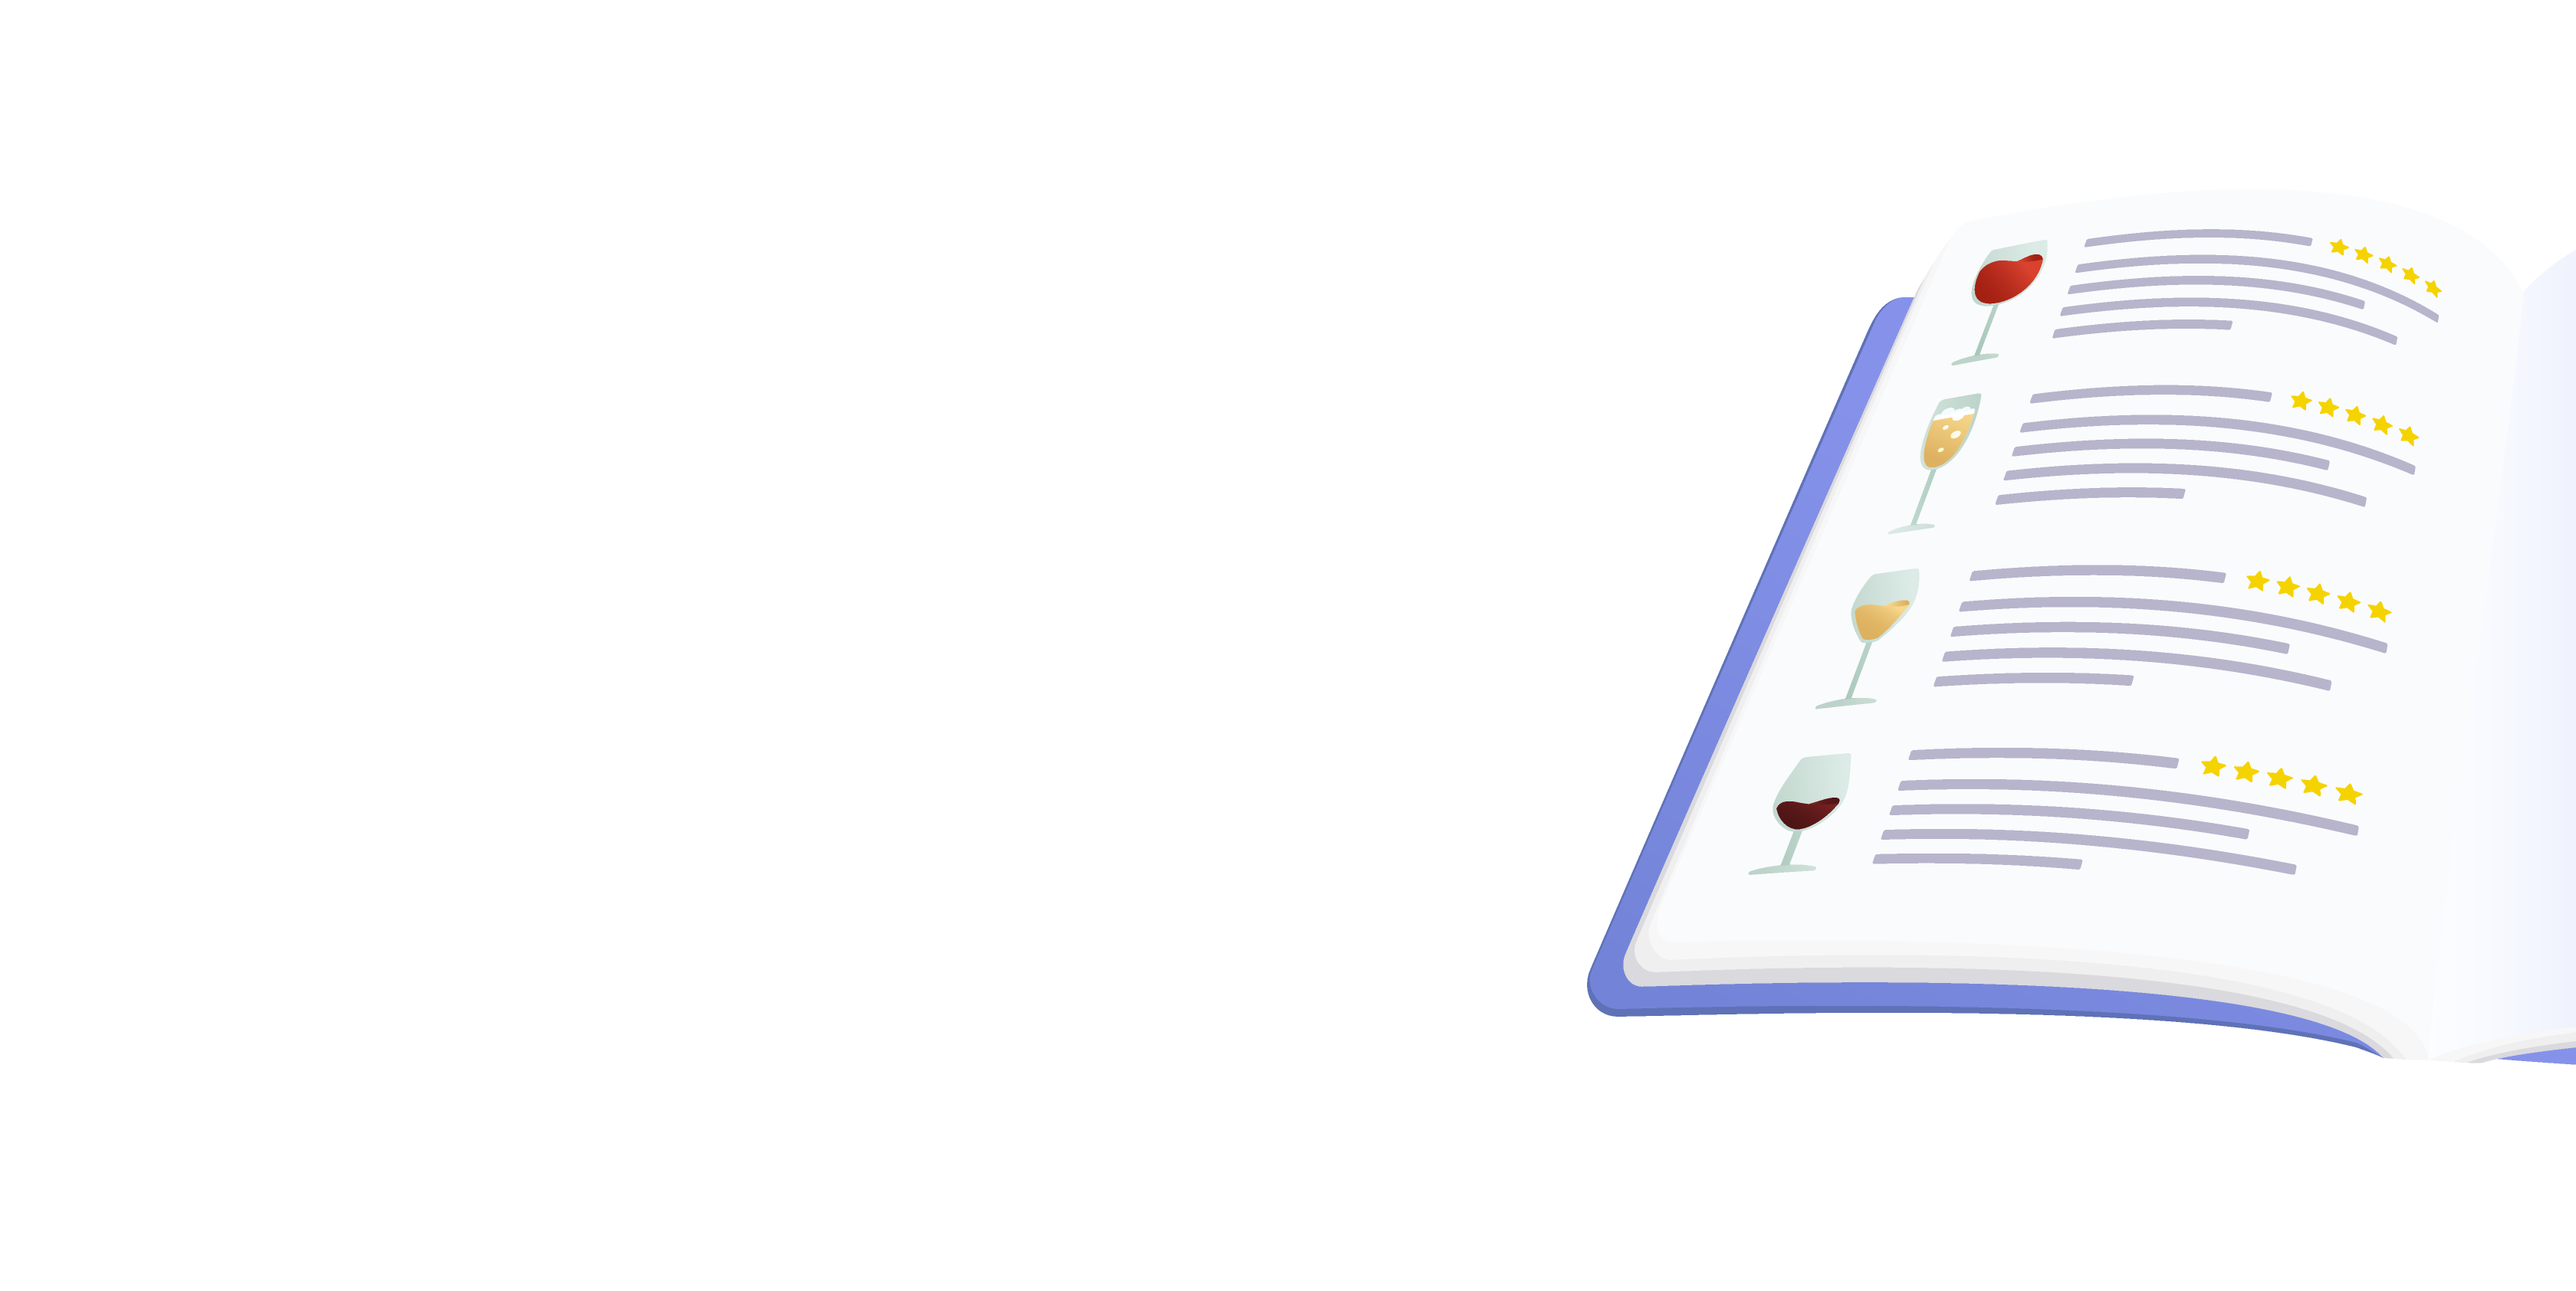
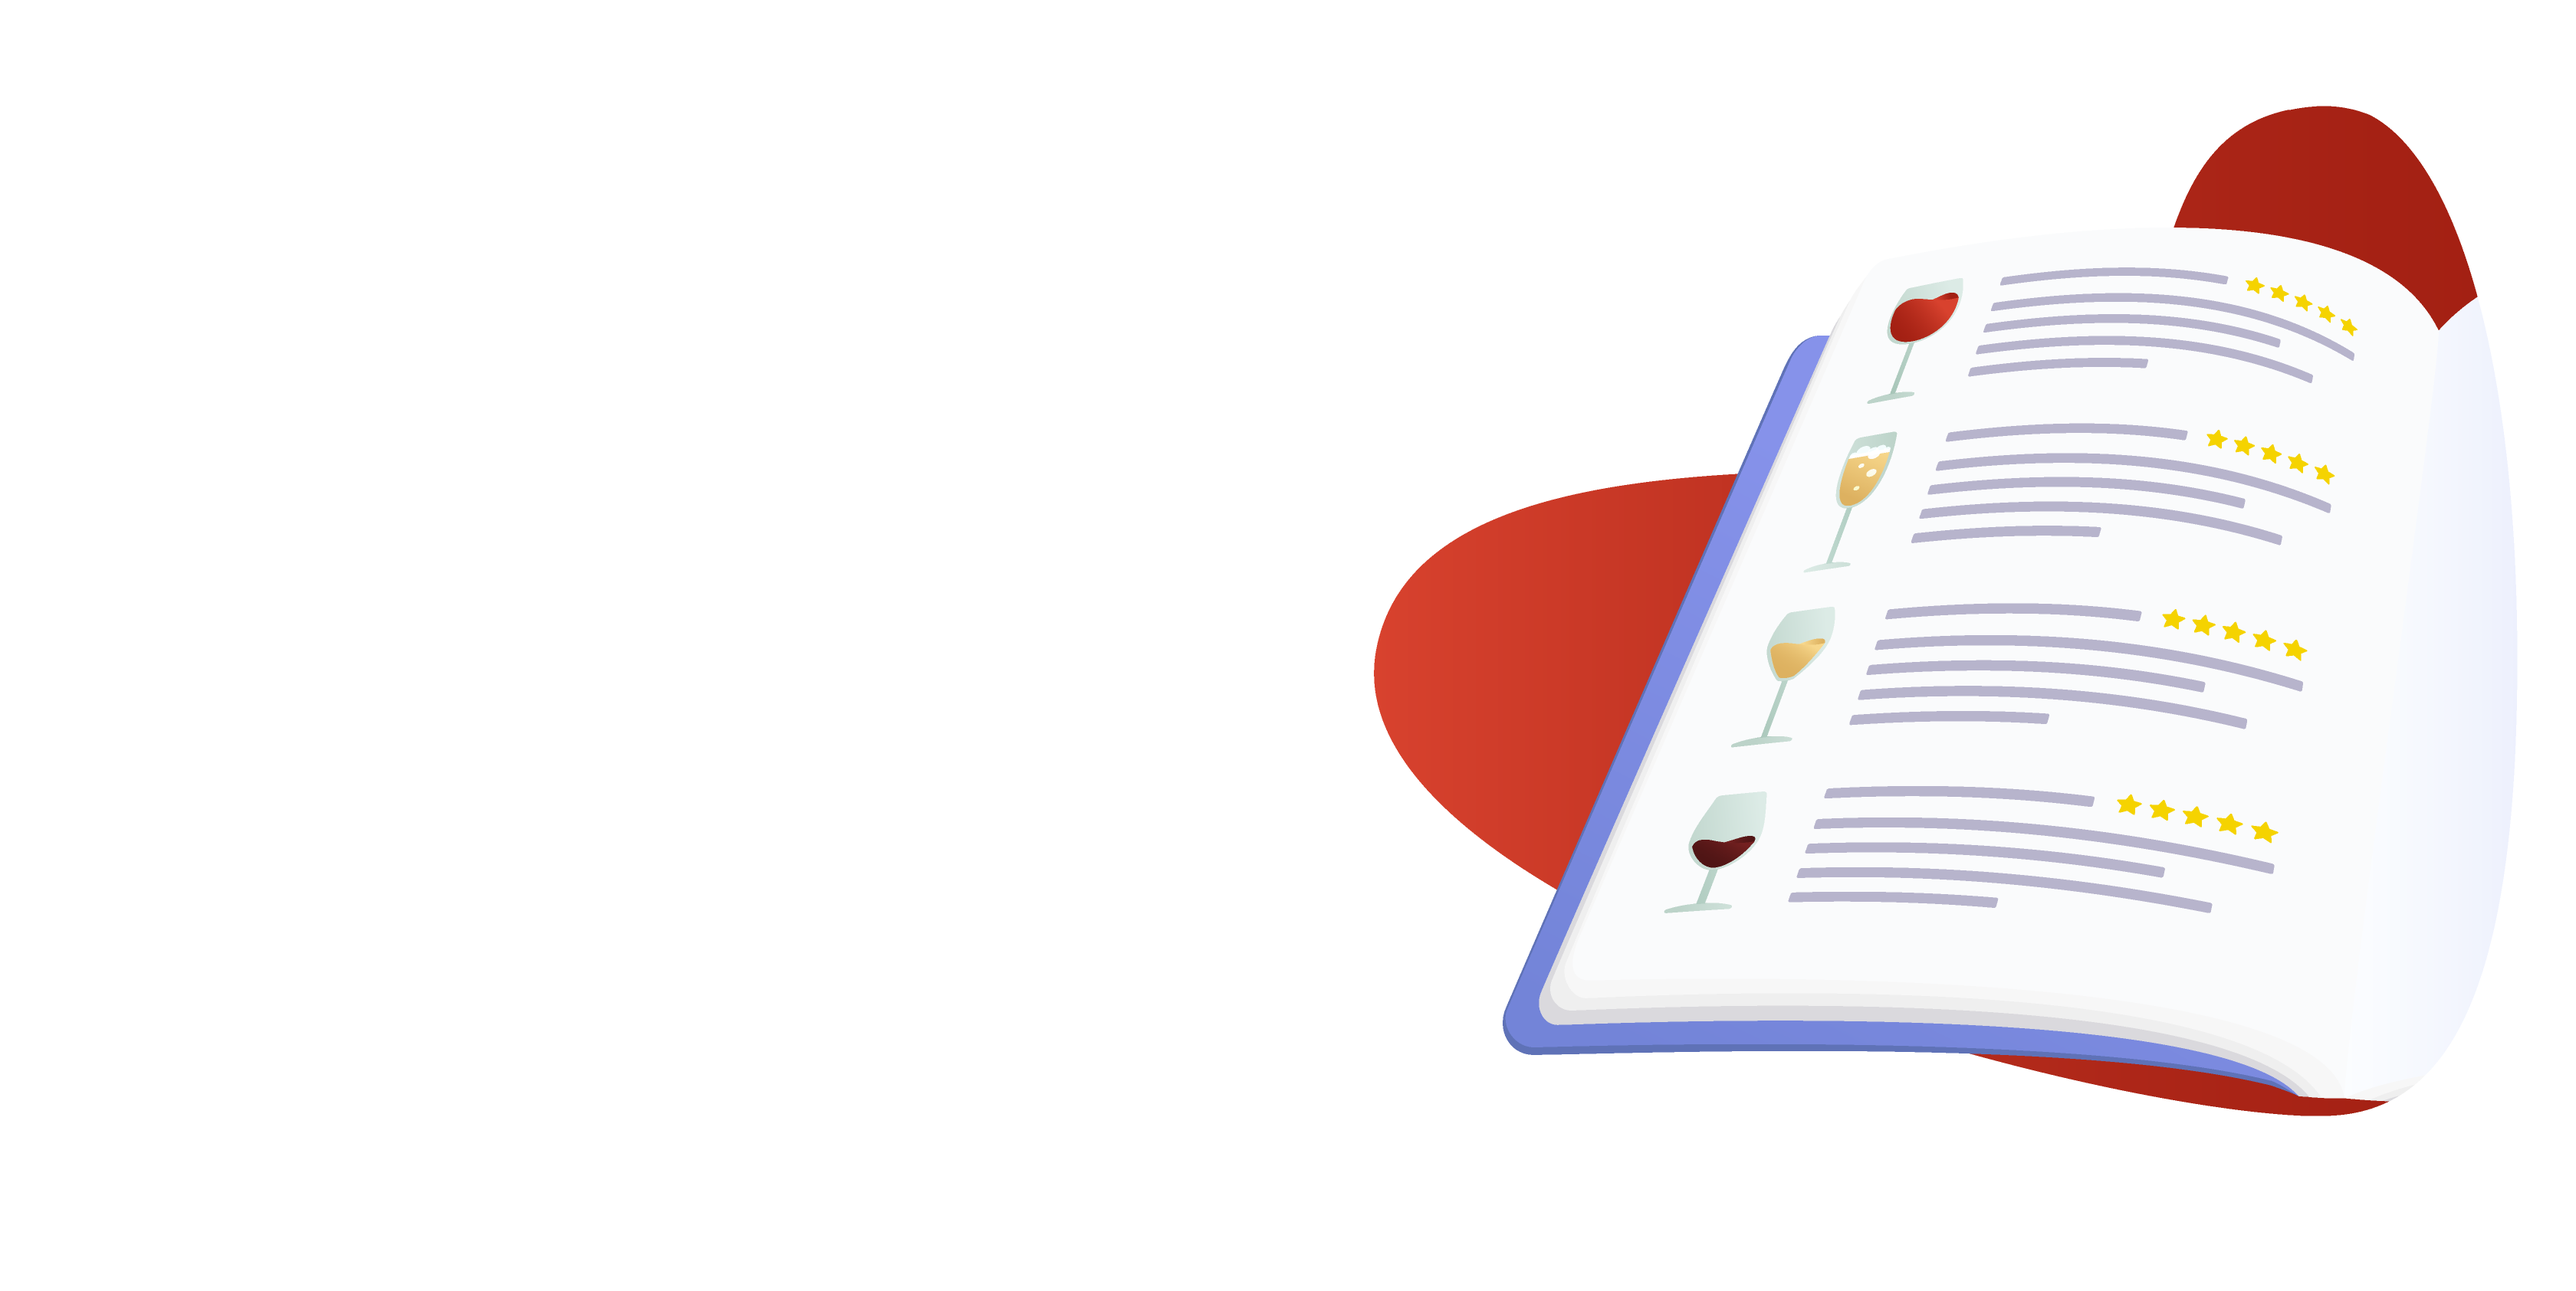
add new landing page image and add new font

Changed region(s): [[0.5312, 0.0617, 0.9688, 0.8641], [0.9688, 0.8024, 1.0, 0.8332]]

diff --git a/client/src/styles/main.css b/client/src/styles/main.css
@@ -48,6 +48,9 @@ body {
   color: #222;
   font-size: 1rem; }
 
+h1, h2, h3, h4, h5, h6 {
+  font-family: "Playfair Display", serif; }
+
 h1 {
   font-size: 2em;
   font-weight: 700;
@@ -92,7 +95,6 @@ section {
     transition: all .1s ease-in-out; }
 
 .open-wine-form {
-  font-family: "Helvetica Neue", "Lato", sans-serif;
   font-size: 1.5rem;
   padding: 1rem 2rem; }
 
@@ -164,67 +166,29 @@ input[type="radio"] {
 .expand-link {
   margin-bottom: 1rem; }
 
-header {
-  background-color: #f9f9f9;
-  flex: 1 0 60px;
-  display: flex;
-  line-height: 60px;
-  padding-top: 0;
-  padding-right: 3%;
-  padding-bottom: 0;
-  padding-left: 3%; }
-
-nav {
-  display: flex;
-  flex: 1 1 auto; }
-  nav div:first-child {
-    display: flex;
-    flex: 1 1 auto; }
-  nav div:nth-child(2) {
-    display: flex;
-    flex: 1 1 auto;
-    justify-content: flex-end; }
-    nav div:nth-child(2) ul {
-      list-style: none;
-      display: flex;
-      align-items: center; }
-      nav div:nth-child(2) ul li {
-        margin: 0 40px; }
-        nav div:nth-child(2) ul li:nth-child(1) {
-          margin-left: 0; }
-
-footer {
-  background-color: #f9f9f9;
-  flex: 1 0 60px;
-  display: flex;
-  line-height: 60px;
-  padding-top: 0;
-  padding-right: 3%;
-  padding-bottom: 0;
-  padding-left: 3%; }
-
-.landing {
-  background-image: url("../images/login_bg-5.png");
-  background-size: cover;
-  background-position: center;
-  background-repeat: no-repeat;
-  height: 100vh;
-  margin-top: -80px;
-  display: flex;
-  justify-content: flex-start; }
-  .landing .container {
-    flex: 0 1 auto;
-    display: flex;
-    flex-direction: column;
-    justify-content: center;
-    color: #333; }
-    .landing .container .landing-buttons {
-      display: flex;
-      flex-direction: row; }
-      .landing .container .landing-buttons a.button {
-        flex: none; }
-      .landing .container .landing-buttons a.button:first-child {
-        margin-right: 1rem; }
+.wine-card {
+  display: inline-block;
+  width: 24%;
+  margin-right: 1%;
+  margin-bottom: 1%;
+  padding-bottom: .5rem;
+  border: 1px solid #ddd;
+  border-radius: 5px;
+  color: #333; }
+  .wine-card:hover {
+    box-shadow: 0 2px 4px rgba(0, 0, 0, 0.2);
+    transition: all .1s ease-in-out; }
+  .wine-card .card-image {
+    background-color: #ddd;
+    background-size: cover;
+    background-position: center;
+    background-repeat: no-repeat;
+    height: 200px; }
+  .wine-card h3.wine-row {
+    padding-top: .8rem; }
+  .wine-card .wine-row {
+    display: block;
+    padding: .1rem 1rem; }
 
 .auth-form {
   margin: 1rem 0;
@@ -262,26 +226,54 @@ footer {
     .bg-image .auth-container h1 {
       margin-bottom: 0; }
 
-.wine-card {
-  display: inline-block;
-  width: 24%;
-  margin-right: 1%;
-  margin-bottom: 1%;
-  padding-bottom: .5rem;
-  border: 1px solid #ddd;
-  border-radius: 5px;
-  color: #333; }
-  .wine-card:hover {
-    box-shadow: 0 2px 4px rgba(0, 0, 0, 0.2);
-    transition: all .1s ease-in-out; }
-  .wine-card .card-image {
-    background-color: #ddd;
-    background-size: cover;
-    background-position: center;
-    background-repeat: no-repeat;
-    height: 200px; }
-  .wine-card h3.wine-row {
-    padding-top: .8rem; }
-  .wine-card .wine-row {
-    display: block;
-    padding: .1rem 1rem; }
+header {
+  background-color: #f9f9f9;
+  flex: 1 0 60px;
+  display: flex;
+  line-height: 60px;
+  padding-top: 0;
+  padding-right: 3%;
+  padding-bottom: 0;
+  padding-left: 3%; }
+
+nav {
+  display: flex;
+  flex: 1 1 auto; }
+  nav div:first-child {
+    display: flex;
+    flex: 1 1 auto; }
+  nav div:nth-child(2) {
+    display: flex;
+    flex: 1 1 auto;
+    justify-content: flex-end; }
+    nav div:nth-child(2) ul {
+      list-style: none;
+      display: flex;
+      align-items: center; }
+      nav div:nth-child(2) ul li {
+        margin: 0 40px; }
+        nav div:nth-child(2) ul li:nth-child(1) {
+          margin-left: 0; }
+
+.landing {
+  background-image: url("../images/home_bg.png");
+  background-size: cover;
+  background-position: center;
+  background-repeat: no-repeat;
+  height: 100vh;
+  margin-top: -80px;
+  display: flex;
+  justify-content: flex-start; }
+  .landing .container {
+    flex: 0 1 auto;
+    display: flex;
+    flex-direction: column;
+    justify-content: center;
+    color: #333; }
+    .landing .container .landing-buttons {
+      display: flex;
+      flex-direction: row; }
+      .landing .container .landing-buttons a.button {
+        flex: none; }
+      .landing .container .landing-buttons a.button:first-child {
+        margin-right: 1rem; }

diff --git a/client/public/index.html b/client/public/index.html
@@ -20,8 +20,9 @@
       work correctly both with client-side routing and a non-root public URL.
       Learn how to configure a non-root public URL by running `npm run build`.
     -->
-  <link rel="stylesheet" href="https://use.fontawesome.com/releases/v5.0.13/css/all.css" integrity="sha384-DNOHZ68U8hZfKXOrtjWvjxusGo9WQnrNx2sqG0tfsghAvtVlRW3tvkXWZh58N9jp"
-    crossorigin="anonymous">
+  <link rel="stylesheet" href="https://use.fontawesome.com/releases/v5.0.13/css/all.css"
+    integrity="sha384-DNOHZ68U8hZfKXOrtjWvjxusGo9WQnrNx2sqG0tfsghAvtVlRW3tvkXWZh58N9jp" crossorigin="anonymous">
+  <link href="https://fonts.googleapis.com/css?family=Playfair+Display:400,700,900&display=swap" rel="stylesheet">
   <title>Wine Journal</title>
 </head>
 

diff --git a/client/src/styles/sass/layout/_index.scss b/client/src/styles/sass/layout/_index.scss
@@ -1,7 +1,7 @@
 .landing {
   //background-image: url('../images/andrew-seaman-598038-unsplash.jpg');
-  // background-image: url('../images/home_bg.png');
-  background-image: url('../images/login_bg-5.png');
+  background-image: url('../images/home_bg.png');
+  // background-image: url('../images/login_bg-5.png');
   background-size: cover;
   background-position: center;
   background-repeat: no-repeat;

diff --git a/client/src/styles/sass/helpers/_variables.scss b/client/src/styles/sass/helpers/_variables.scss
@@ -12,7 +12,9 @@ $gray: #DEDEDE;
 
 $darker-gray: #CECECE;
 
-$fonts: 'Helvetica Neue', 'Lato', sans-serif;
+$font-heading: 'Playfair Display', serif;
+
+$font-body: 'Helvetica Neue', 'Lato', sans-serif;
 
 $border: 1px solid #ddd;
 

diff --git a/client/src/styles/sass/base/_general.scss b/client/src/styles/sass/base/_general.scss
@@ -9,9 +9,13 @@ html {
 body {
   background-color: #fff;
   margin: 0;
-  font-family: $fonts;
+  font-family: $font-body;
   color: #222;
   font-size: 1rem;
+}
+
+h1, h2, h3, h4, h5, h6 {
+  font-family: $font-heading;
 }
 
 h1 {

diff --git a/client/src/styles/sass/components/_module.scss b/client/src/styles/sass/components/_module.scss
@@ -1,2 +1,4 @@
 @import '_buttons.scss';
-@import '_forms.scss';
+@import 'wine-form/_forms.scss';
+@import 'wine-feed/_winedisplay.scss';
+@import 'auth/_login.scss';

diff --git a/client/src/styles/sass/layout/_module.scss b/client/src/styles/sass/layout/_module.scss
@@ -1,5 +1,2 @@
 @import '_header.scss';
-@import '_footer.scss';
 @import '_index.scss';
-@import '_login.scss';
-@import '_winedisplay.scss';

diff --git a/client/src/styles/sass/components/_buttons.scss b/client/src/styles/sass/components/_buttons.scss
@@ -21,7 +21,7 @@
 }
 
 .open-wine-form {
-  font-family: $fonts;
+  //font-family: $fonts;
   font-size: 1.5rem;
   padding: 1rem 2rem;
 }
